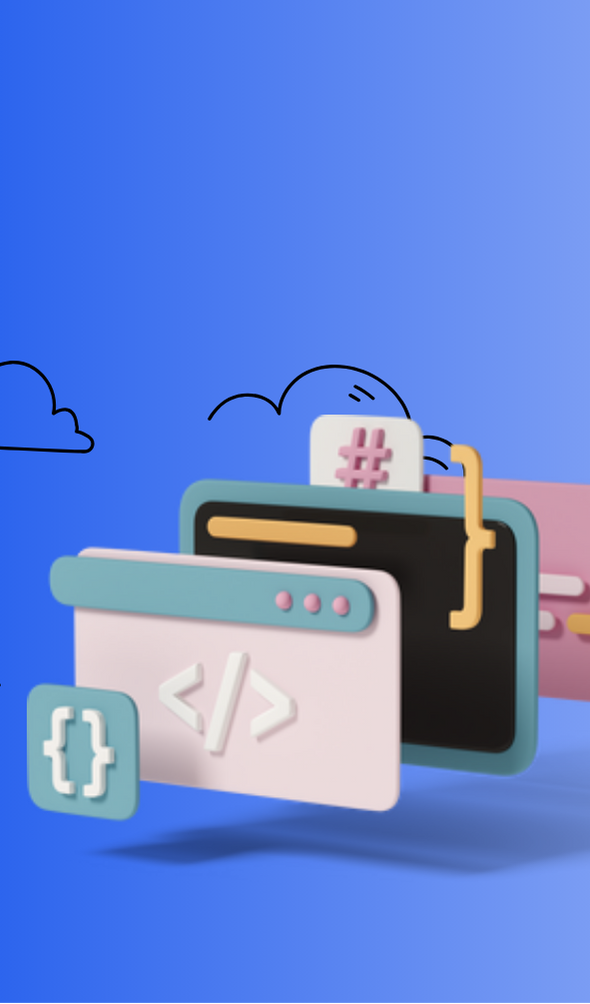
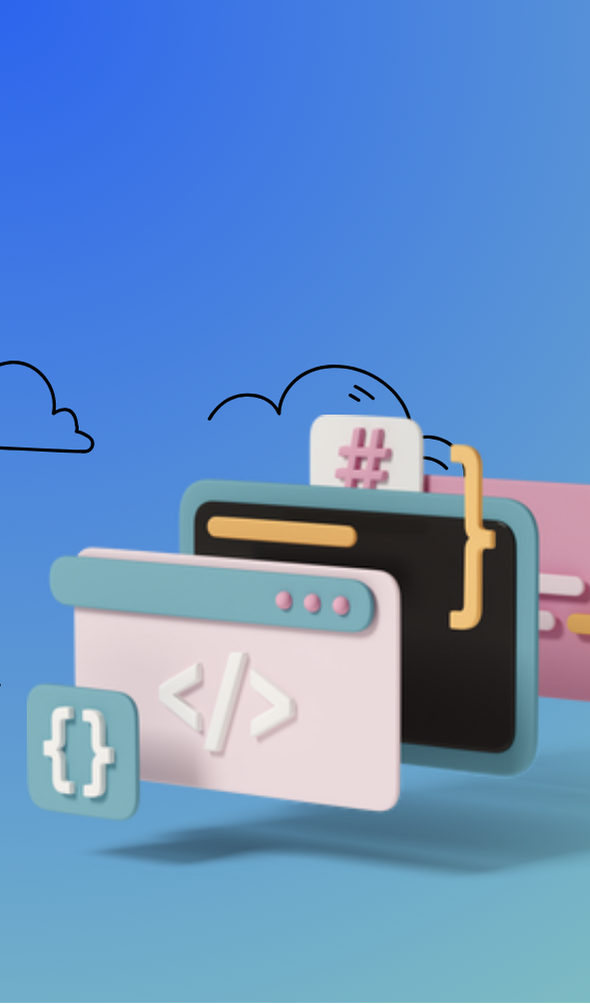
alteração nas cores cards

diff --git a/public/css/style.css b/public/css/style.css
@@ -72,8 +72,12 @@ a {
 
 /* Bloco de destaque Home */
 .segna-bloco {
-    background: rgb(242,240,255);
-    background: linear-gradient(90deg, rgba(242,240,255,1) 0%, rgba(217,234,255,1) 100%);
+/*     background: rgb(242,240,255);
+    background: linear-gradient(90deg, rgba(242,240,255,1) 0%, rgba(217,234,255,1) 100%); */
+
+    background: rgb(218,229,251);
+    background: linear-gradient(90deg, rgba(218,229,251,1) 35%, rgba(237,242,253,1) 100%);
+
 }
 
 .text-white {
@@ -303,36 +307,51 @@ picture img {
         background-size: cover;
         background-position: center;
         background-repeat: no-repeat;
+
+        color: white !important;
+        font-size: 1.2rem;
     }
     .design-cards {
         background-image: url("../img/home/Card_design.png");
         background-size: cover;
         background-position: center;
         background-repeat: no-repeat;
+        
+        font-size: 1.2rem;
     }
     .redatores-cards {
         background-image: url("../img/home/Card_redator.png");
         background-size: cover;
         background-position: center;
         background-repeat: no-repeat;
+
+        color: white !important;
+        font-size: 1.2rem;
     }
     .fotografos-cards {
         background-image: url("../img/home/Card_fotografo.png");
         background-size: cover;
         background-position: center;
         background-repeat: no-repeat;
+        
+        font-size: 1.2rem;
     }
     .consultores-cards {
         background-image: url("../img/home/Card_consultor.png");
         background-size: cover;
         background-position: center;
         background-repeat: no-repeat;
+
+        color: white !important;
+        font-size: 1.2rem;
     }
     .professores-cards {
         background-image: url("../img/home/Card_professor.png");
         background-size: cover;
         background-position: center;
         background-repeat: no-repeat;
+        
+        font-size: 1.2rem;
     }
     /* Final Card home Configuração das Imagens */
 
